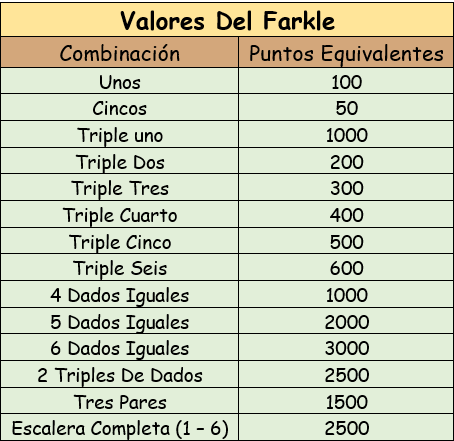
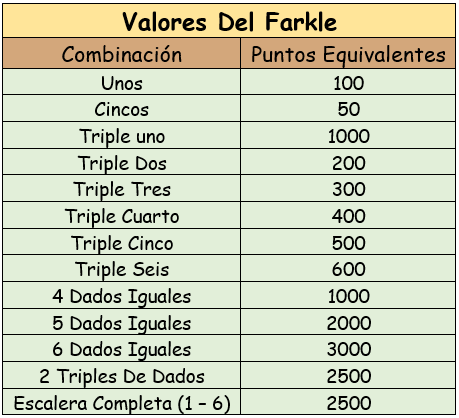
Se modificaron las combinaciones y el farkle.

Changed region(s): [[0.0, 0.0, 1.0, 1.0]]

diff --git a/src/Farkle.java b/src/Farkle.java
@@ -196,24 +196,6 @@ public class Farkle {
         }
 
         for (int valor : dadosTomados) {
-            conteo2[valor]++;
-        }
-        for (int i = 1; i <= 6; i++) {
-            if (conteo2[i] == 2) {
-                pares++;
-            }
-        }
-        if (pares == 3) {
-            puntuacion += 1500;
-            unos = 0;
-            doses = 0;
-            treses = 0;
-            cuatros = 0;
-            cincos = 0;
-            seises = 0;
-        }
-
-        for (int valor : dadosTomados) {
             numero[valor]++;
         }
 
@@ -279,16 +261,6 @@ public class Farkle {
         }
 
         if (doses >= 3 || treses >= 3 || cuatros >= 3 || seises >= 3) {
-            return false;
-        }
-
-        if (doses == 2 && treses == 2 && cuatros == 2) {
-            return false;
-        } else if (doses == 2 && treses == 2 && seises == 2) {
-            return false;
-        } else if (doses == 2 && cuatros == 2 && seises == 2) {
-            return false;
-        } else if (treses == 2 && cuatros == 2 && seises == 2) {
             return false;
         }
 
